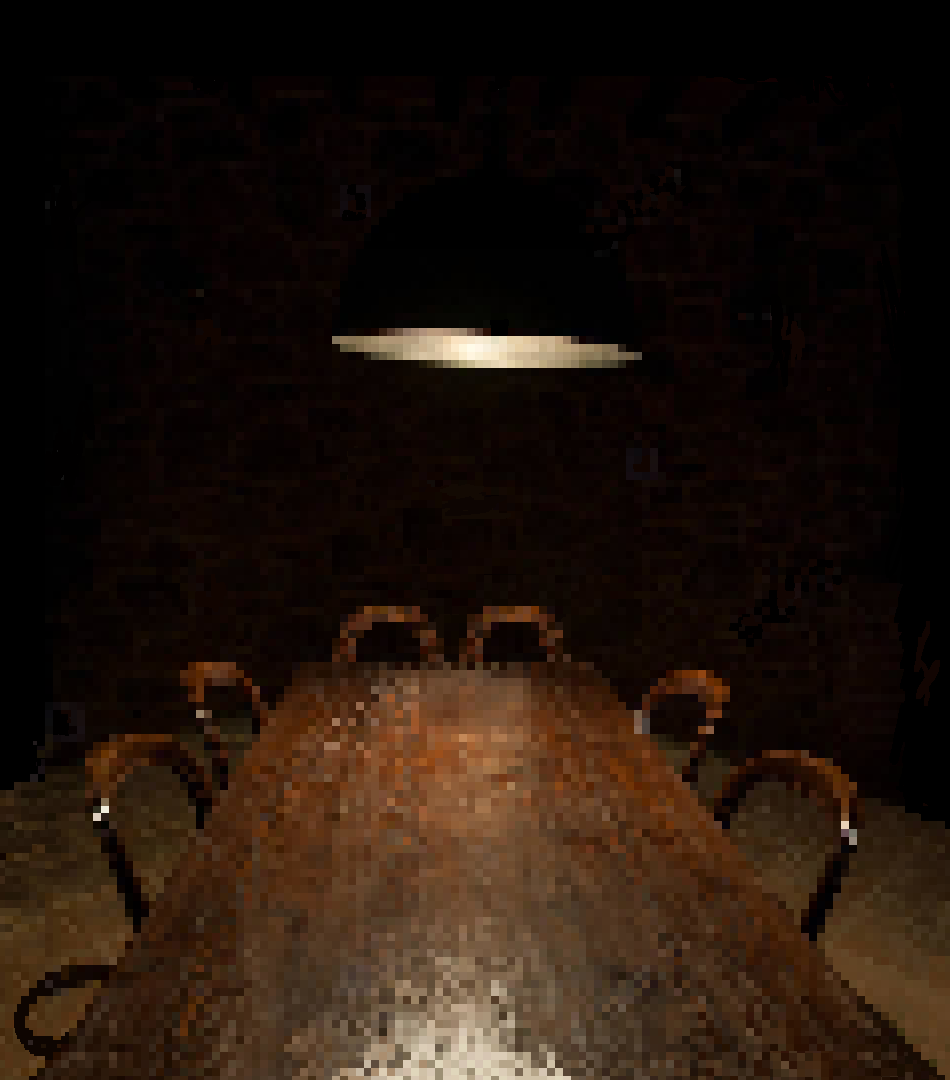
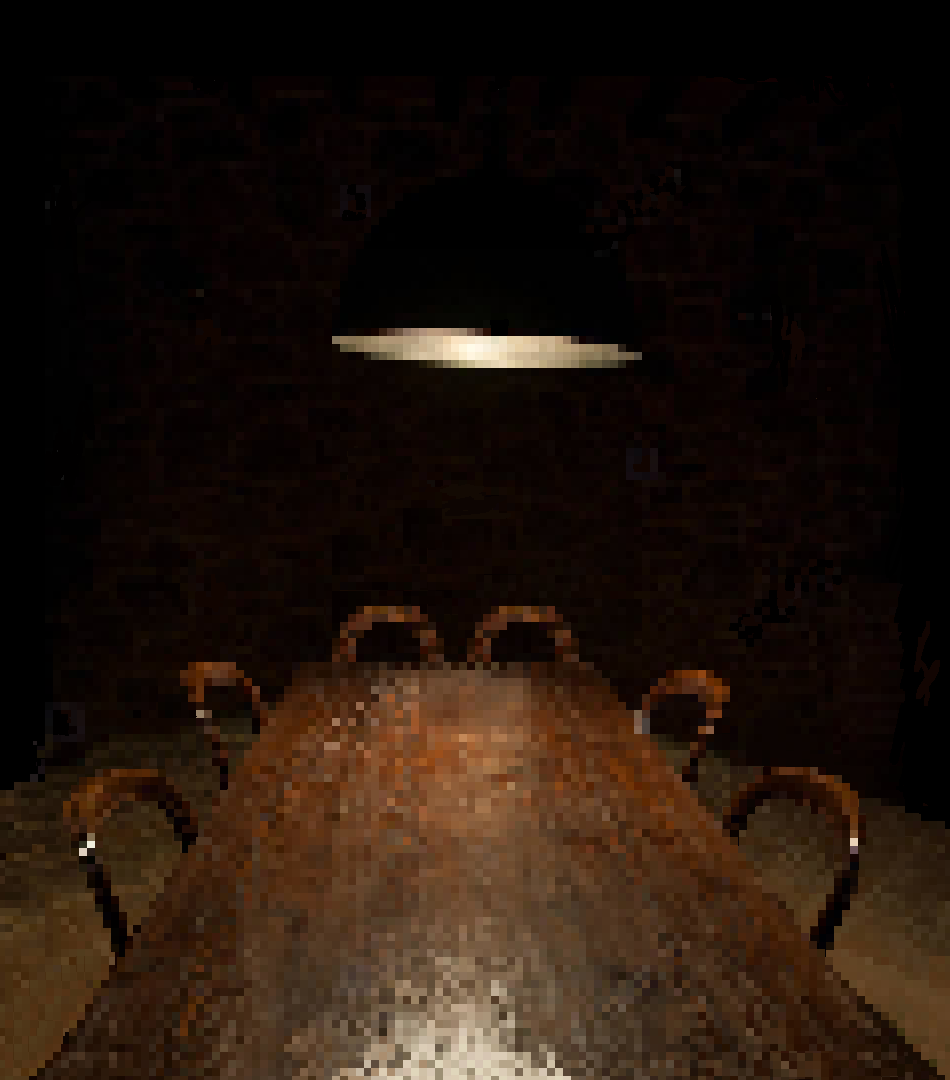
Push of a lot of game design components

Changed region(s): [[0.0, 0.6722, 0.2442, 0.9778], [0.7326, 0.6722, 0.9158, 0.8861], [0.4884, 0.55, 0.6105, 0.6111]]

diff --git a/src/components/game/GameInfos/Picture.js b/src/components/game/GameInfos/Picture.js
@@ -1,8 +1,21 @@
 import styled from "styled-components";
 import {withRouter} from "react-router-dom";
 import React from "react";
-import ShyGuy from "../Shyguys/shyguy-gif-1.gif"
 import {api} from "../../../helpers/api";
+import ShyGuyRightFront from "../Shyguys/Red/ShyGuyRightFront.png"
+import ShyGuyRightBehind from "../Shyguys/Red/ShyGuyRightBehind.png"
+import ShyGuyLeftFront from "../Shyguys/Red/ShyGuyLeftFront.png"
+import ShyGuyLeftBehind from "../Shyguys/Red/ShyGuyLeftBehind.png"
+import ShyGuyBehindRight from "../Shyguys/Red/ShyGuyBehindRight.png"
+import ShyGuyBehindLeft from "../Shyguys/Red/ShyGuyBehindLeft.png"
+import ChairBehindLeft from "../Chairs/TableClosed/TischHintererStuhlLinks.png"
+import ChairBehindRight from "../Chairs/TableClosed/TischHintererStuhlRechts.png"
+import ChairLeftBehind from "../Chairs/TableClosed/TischLinkerHintererStuhl.png"
+import ChairLeftFront from "../Chairs/TableClosed/TischLinkerVordererStuhl.png"
+import ChairRightFront from "../Chairs/TableClosed/TischRechterVordererStuhl.png"
+import ChairRightBehind from "../Chairs/TableClosed/TischRechterHintererStuhl.png"
+
+
 
 
 
@@ -18,14 +31,16 @@ const BackgroundContainer = styled.div`
     `
 
 
-const ShyGuyOne = styled.img`
+const ImageContainer = styled.img`
    position: absolute
    display: flex;
    flex-direction: column;
    align-items: flex-start;
-   margin-top: 380px;
+   height: 700px;
+   width: 800px
+   margin-top: 100px;
    margin-left: 400px;
-   `
+    `
 
 
 
@@ -77,11 +92,36 @@ class Picture extends React.Component{
     render(){
     return(
         <div>
-        <BackgroundContainer className = 'lobbyBackground'>
-            <ShyGuyOne src={ShyGuy}></ShyGuyOne>
+        <BackgroundContainer className = 'tablePlain'>
         </BackgroundContainer>
-        <BackgroundContainer className= 'table'>
-        </BackgroundContainer>
+            <ImageContainer src={ChairBehindLeft}>
+            </ImageContainer>
+            <ImageContainer src={ChairBehindRight}>
+            </ImageContainer>
+            <ImageContainer src={ChairLeftBehind}>
+            </ImageContainer>
+            <ImageContainer src={ChairLeftFront}>
+            </ImageContainer>
+            <ImageContainer src={ChairRightBehind}>
+            </ImageContainer>
+            <ImageContainer src={ChairRightFront}>
+            </ImageContainer>
+            <ImageContainer src={ShyGuyBehindLeft}>
+            </ImageContainer>
+            <ImageContainer src={ShyGuyBehindRight}>
+            </ImageContainer>
+            <ImageContainer src={ShyGuyLeftBehind}>
+            </ImageContainer>
+            <ImageContainer src={ShyGuyLeftFront}>
+            </ImageContainer>
+            <ImageContainer src={ShyGuyRightBehind}>
+            </ImageContainer>
+            <ImageContainer src={ShyGuyRightFront}>
+            </ImageContainer>
+            <BackgroundContainer className= 'table'>
+            </BackgroundContainer>
+
+
         </div>
         )
     }

diff --git a/src/components/login/Login.js b/src/components/login/Login.js
@@ -116,10 +116,10 @@ class Login extends React.Component {
   }
 
   async login() {
+      this.handleDoor();
     try {
         this.toggleErrorFalse();
         await new Promise(resolve => setTimeout(resolve, 1500));
-
         const requestBody = JSON.stringify({
             username: this.state.username,
             password: this.state.password,
@@ -239,7 +239,6 @@ class Login extends React.Component {
                     boxShadow = "null"
                     onClick={() => {
                         this.logging();
-                        this.handleDoor();
                         this.login();
                     }}
                 >

diff --git a/src/index.css b/src/index.css
@@ -169,12 +169,21 @@ button {
   margin: auto
 }
 
+.tablePlain{
+  background-image: url("TablePlain.png");
+  background-size: 100% 100%, contain;
+  background-repeat: no-repeat;
+  margin: auto
+}
+
 .table{
   background-image: url("OnlyTable.png");
   background-size: 100% 100%, contain;
   background-repeat: no-repeat;
   margin: auto
 }
+
+
 
 .profilePicture{
   background-size: 150px 150px;
